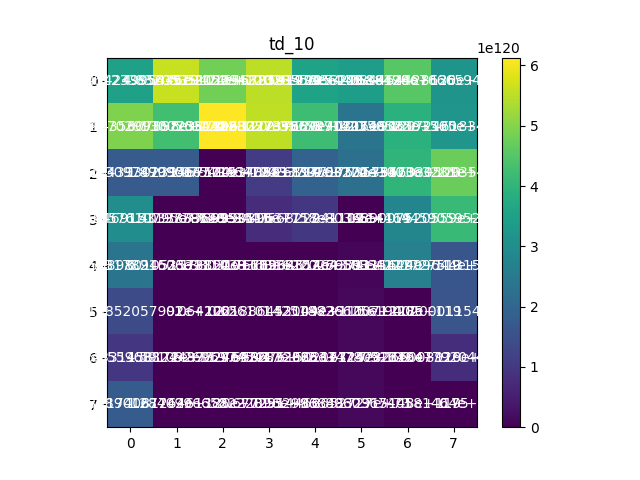
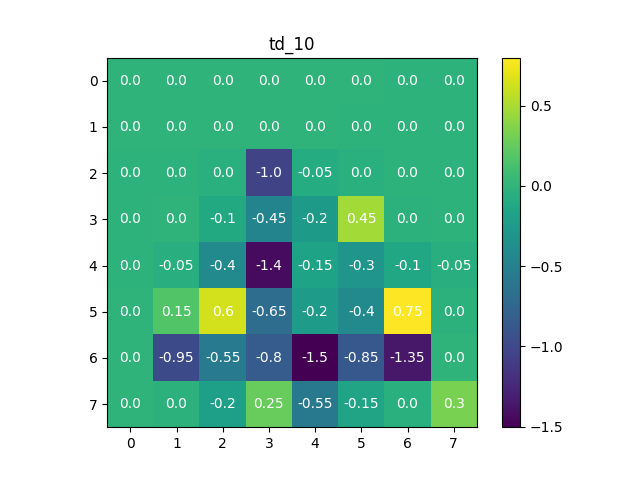
q3.2.4

diff --git a/hw4/code/rl.py b/hw4/code/rl.py
@@ -250,6 +250,7 @@ def td_zero(env, gamma, policy, alpha, neps=int(1e4)):
   """
   S = env.nS
   V = np.random.rand(S)
+  V[-1] = 0.0
     
   # for each episode
   for e in range(neps):
@@ -269,13 +270,12 @@ def td_zero(env, gamma, policy, alpha, neps=int(1e4)):
       # update state
       state = next_state
         
-    if e % 100 == 0:
+    if e % 1000 == 0:
       print(f"num episodes: {e}/{neps}")
         
   return V
 
-
-def n_step_td(env, gamma, policy, alpha, n, neps=int(1e3)):
+def n_step_td(env, gamma, policy, alpha, n, neps=int(1e4)):
   """
     Q3.2.4: BONUS
     This implements n-step TD for calculating the value function given a policy.
@@ -304,12 +304,11 @@ def n_step_td(env, gamma, policy, alpha, n, neps=int(1e3)):
   for e in range(neps):
     # initialize S
     T = np.iinfo(np.int).max
-    state = env.reset()
-    S = [state]
+    S = [env.reset()]
     R = [0]
     
     t, tau = 0, 0
-    while tau < T - 1:
+    while True:
       if t < T:
         # take action given by policy
         action = int(policy[S[t]][0])
@@ -324,17 +323,23 @@ def n_step_td(env, gamma, policy, alpha, n, neps=int(1e3)):
       # tau - time whose state's estimate is being updated
       tau = t - n + 1
       if tau >= 0:
-        h = np.minimum(tau+n, T)
-        l = tau + 1
         G = 0.0
+        # from Sutton's book
+        h = np.minimum(tau+n, T)
+        l = tau # + 1
         for i in range(l, h):
-          G += gamma**(i-tau-1) * R[i]
-          if tau + n < T:
-            G += gamma**n * V[S[tau+n]]
-          V[S[tau]] += alpha * (G - V[S[tau]])
+          G += gamma**(i-tau) * R[i]
+          # G += (gamma**(i-tau-1)) * R[i]
+        if tau + n < T:
+          G += gamma**n * V[S[tau+n]]
+        V[S[tau]] += alpha * (G - V[S[tau]])
+      
+      if tau == T - 1:
+        break
         
       t += 1
-    if e % 100 == 0:
+    
+    if e % 1000 == 0:
       print(f"num episodes: {e}/{neps}")
     
   return V
@@ -367,36 +372,33 @@ if __name__ == "__main__":
   # Play around with these values if you want!
   gamma = 0.9
   alpha = 0.05
-  n = 10
+  n = 4
   action_names = ['L', 'D', 'R', 'U']
   
   # Q3.2.1
   print(f"\n** q3.2.1 value iteration")
   V_vi, n_iter = value_iteration(env, gamma)
-  # plot(V_vi.reshape(gw, gh), title='value_iteration')
-  # print(f"value iteration converged after {n_iter} steps")
+  plot(V_vi.reshape(gw, gh), title='value_iteration')
+  print(f"value iteration converged after {n_iter} steps")
   policy = policy_from_value_function(env, V_vi, gamma)
-  # plot(policy.reshape(gw, gh), title='policy_from_value_iteration', text=action_names)
-
+  plot(policy.reshape(gw, gh), title='policy_from_value_iteration', text=action_names)
 
   # Q3.2.2: BONUS
-  # print(f"\n** q3.2.2 policy iteration")
-  # V_pi, n_iter = policy_iteration(env, gamma)
-  # print(f"policy iteration converged after {n_iter} steps")
-  # plot(V_pi.reshape(gw, gh), title='policy_iteration')
-  # ppolicy = policy_from_value_function(env, V_pi, gamma)
-  # plot(ppolicy.reshape(gw, gh), title='policy_from_policy_iteration', text=action_names)
+  print(f"\n** q3.2.2 policy iteration")
+  V_pi, n_iter = policy_iteration(env, gamma)
+  print(f"policy iteration converged after {n_iter} steps")
+  plot(V_pi.reshape(gw, gh), title='policy_iteration')
+  ppolicy = policy_from_value_function(env, V_pi, gamma)
+  plot(ppolicy.reshape(gw, gh), title='policy_from_policy_iteration', text=action_names)
 
   # Q3.2.3
-  # print(f"\n** q3.2.3 TD 0")
-  # V_td = td_zero(env, gamma, policy, alpha)
-  # plot(V_td.reshape(gw, gh), title='td_zero')
+  print(f"\n** q3.2.3 TD 0")
+  V_td = td_zero(env, gamma, policy, alpha)
+  plot(V_td.reshape(gw, gh), title='td_zero')
   
   # Q3.2.4: BONUS
   print(f"\n** q3.2.4 TD n")
-  V_ntd = n_step_td(env, gamma, policy, alpha, n)
-  plot(V_ntd.reshape(gw, gh), title=f'td_{n}')
-  
-  # n = 1
-  # V_ntd = n_step_td(env, gamma, policy, alpha, n)
-  # plot(V_ntd.reshape(gw, gh), title=f'td_{n}')
+  for n in range(1, 11):
+    print(f"using n: {n}")
+    V_ntd = n_step_td(env, gamma, policy, alpha, n)
+    plot(V_ntd.reshape(gw, gh), title=f'td_{n}')
